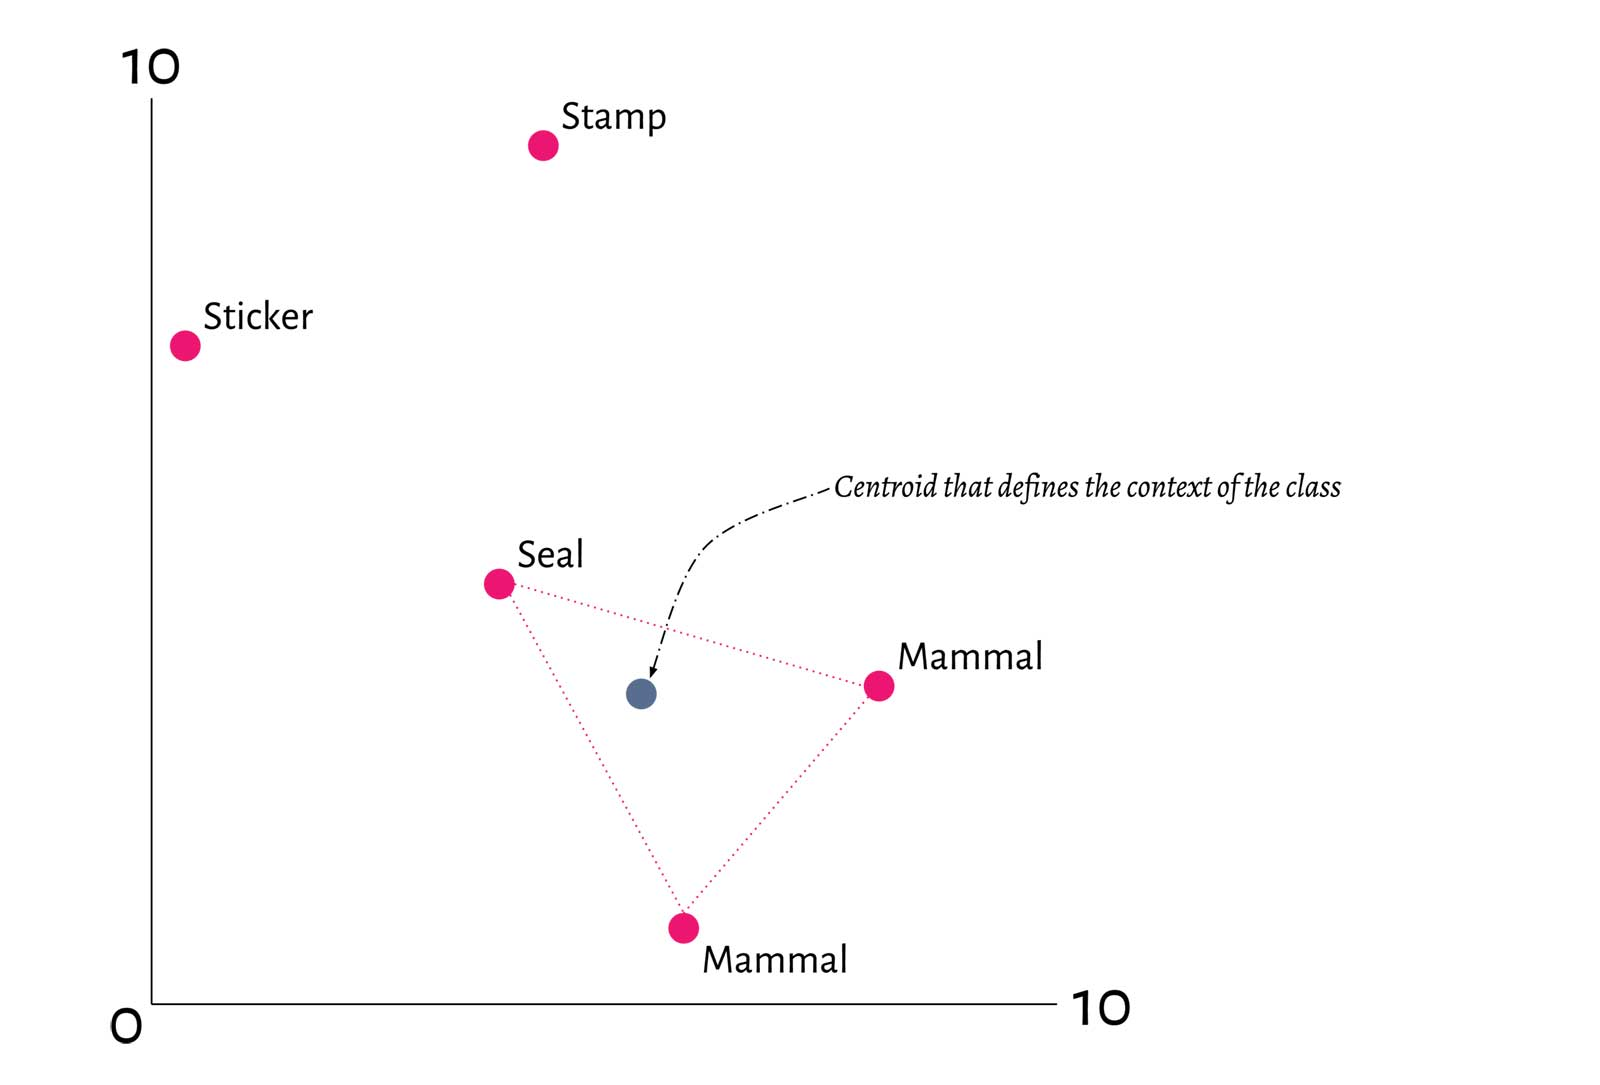
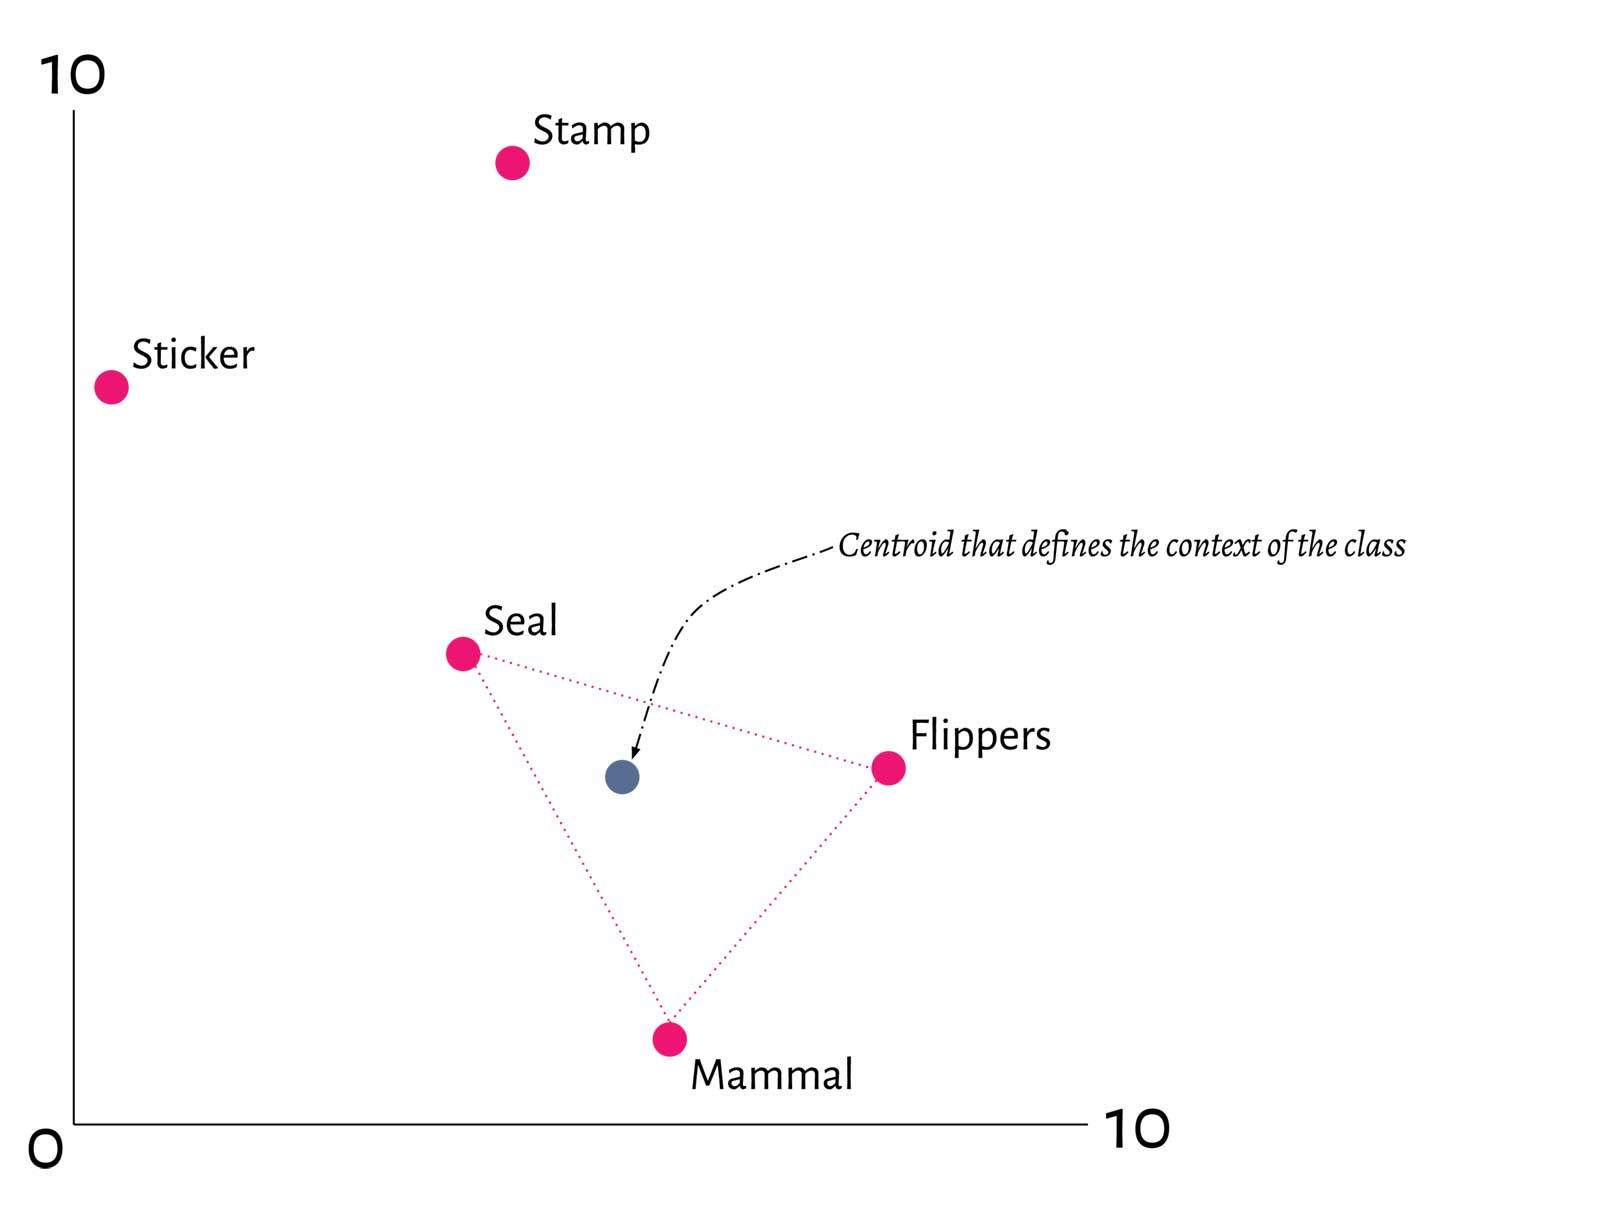
gh-88: Add style guide and links on homepage

diff --git a/css/_sass/_template-home.scss b/css/_sass/_template-home.scss
@@ -1,8 +1,14 @@
 .page--home { // RtP specs
+    
+    a { // quick temporary edit by Bob for the homepage ;-)
+        color: $color-white;
+    }
+
     .header-container {
         background: $color-almostblack;
     }
     .nav-main {
+        
         li {
             a {
                 color: $color-white;

diff --git a/knowledge-base/learn/technology-summary/index.md b/knowledge-base/learn/technology-summary/index.md
@@ -11,9 +11,9 @@ menu-order: 2
 
 ## Problem
 
-Almost all of the data stored around us can be traced back to a certain thing or an action attached to this thing. For example; how many suitcases that are represented at an airport, how many friends one has on a social network or, a bank statement that represents that one ate Sushi with their best friend a few nights ago. They represent something that happened in the physical world and which are stored in a ledger of some kind. Most of the services we use and love are based on some kind of these ledgers.
+Almost all of the data stored around us can be traced back to a certain thing or an action attached to this thing. For example; how many suitcases that are present at an airport, how many friends one has on a social network, or a bank statement that represents that one ate Sushi with their best friend a few nights ago. They represent something that happened in the physical world and which is stored in a ledger of some kind. Most of the services we use and love are based on some kind of these ledgers.
 
-The problem with these kinds of ledgers, though, is that almost all context is lost. To translate the data into something meaningful, you -a human- is needed to add meaningful context to the information provided. So much data<sup><a href="https://www.forbes.com/sites/andrewcave/2017/04/13/what-will-we-do-when-the-worlds-data-hits-163-zettabytes-in-2025/#1c39cdc0349a" alt="What Will We Do When The World's Data Hits 163 Zettabytes In 2025?">(link)</a></sup>, but so less context. As described in our [Executive Summary](/knowledge-base/learn/executive-summary/), we are just scratching the service of what is possible with all the data we have.
+The problem with these kinds of ledgers, is that almost all context is lost. To translate the data into something meaningful, you -a human- is needed to add meaningful context to the information provided. So much data<sup><a href="https://www.forbes.com/sites/andrewcave/2017/04/13/what-will-we-do-when-the-worlds-data-hits-163-zettabytes-in-2025/#1c39cdc0349a" alt="What Will We Do When The World's Data Hits 163 Zettabytes In 2025?">(link)</a></sup>, but so little context. As described in our [Executive Summary](/knowledge-base/learn/executive-summary/), we are just scratching the service of what is possible with all the data we have.
 
 ## Solution
 
@@ -39,7 +39,7 @@ Below is a point by point overview;
 
 Every SeMI-node on a SeMI-network has its own ontology. An ontology describes classes (like "city", "product" or "seal") its properties (like "name", "locatedIn" or "location"). Although defining an ontology in a Weaviate instance is in line with traditional web semantics<sup><a href="https://en.wikipedia.org/wiki/Semantic_Web" alt="Semantic Web">(ref)</a></sup>, it always has been a challenge to find a single definition of one single ontology that everybody can agree with.
 
-In Weaviate this is solved by givering every instance a unique ontology that can be used to describe whatever things and actions it stores.
+In Weaviate this is solved by giving every instance a unique ontology that can be used to describe whatever things and actions it stores.
 
 To make sure that other nodes on the SeMI network can "understand" the context in which the requesting SeMI-node is communicating, the ontology is extended with keywords to give additional context to the classes and properties. This is best explained by example: The word "seal" might appear as a class. If the class will be used to express information about the fur-coated sea mammal (opposed to a stamp to close or authenticate a document), you can add words as; fur, mammal, and sea as keywords.
 
@@ -98,7 +98,9 @@ For example, if SeMI-I has a class: "Seal" and another the class "Dolphin", they
 
 ![SeMI centroid on the network](/img/SeMI-centroid-network.jpg)
 
-This allows to not only limit the knowledge graph to one single SeMI node but to create a network of knowledge graphs. Aka a Knowledge Network. When queried, one SeMI-node can ask another SeMI-node about some class or property that is similar to a class or property in the node. For example: _Which SeMI-node knows about the centroid of "Seal", "Mammal" and "Flippers"._
+This allows to not only limit the knowledge graph to one single SeMI node but to create a network of knowledge graphs. Aka a Knowledge Network. When queried, one SeMI-node can ask another SeMI-node about some class or property that is similar to a class or property in the node.
+
+For example: _Which SeMI-node knows about the centroid of "Seal", "Mammal" and "Flippers"._
 
 ![SeMI centroid on network, combined](/img/SeMI-centroid-network-combined.jpg)
 
